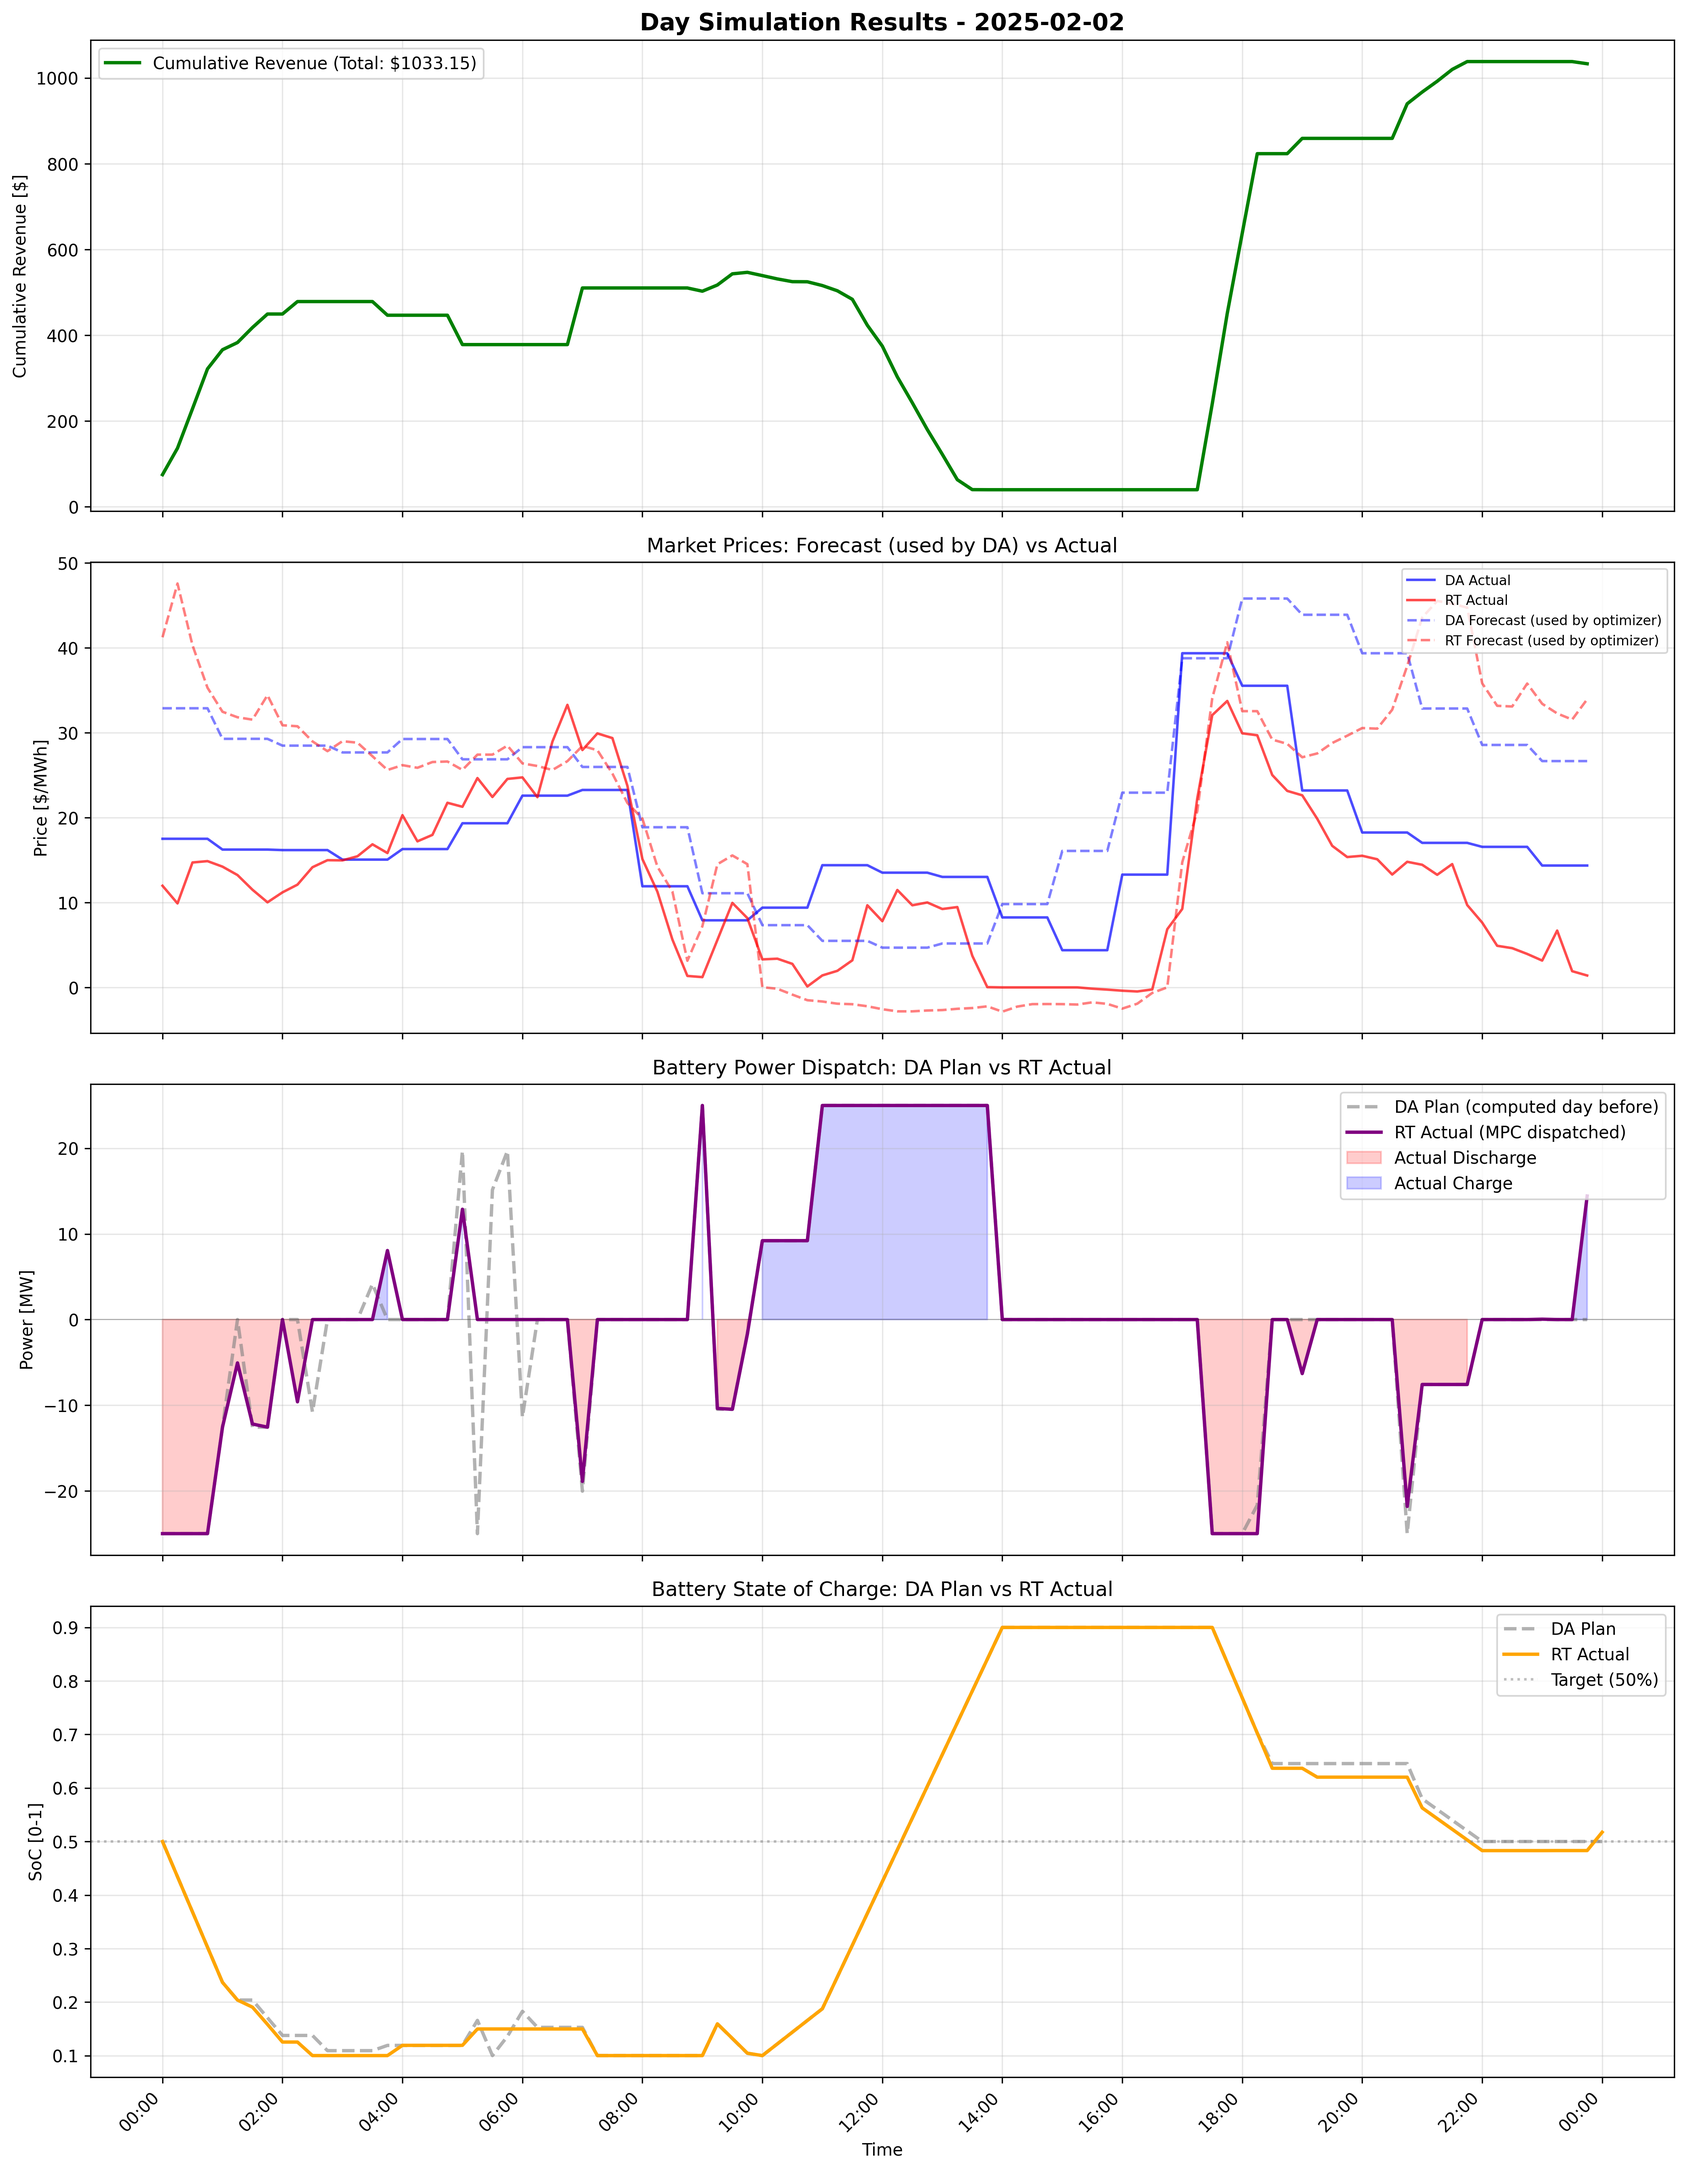
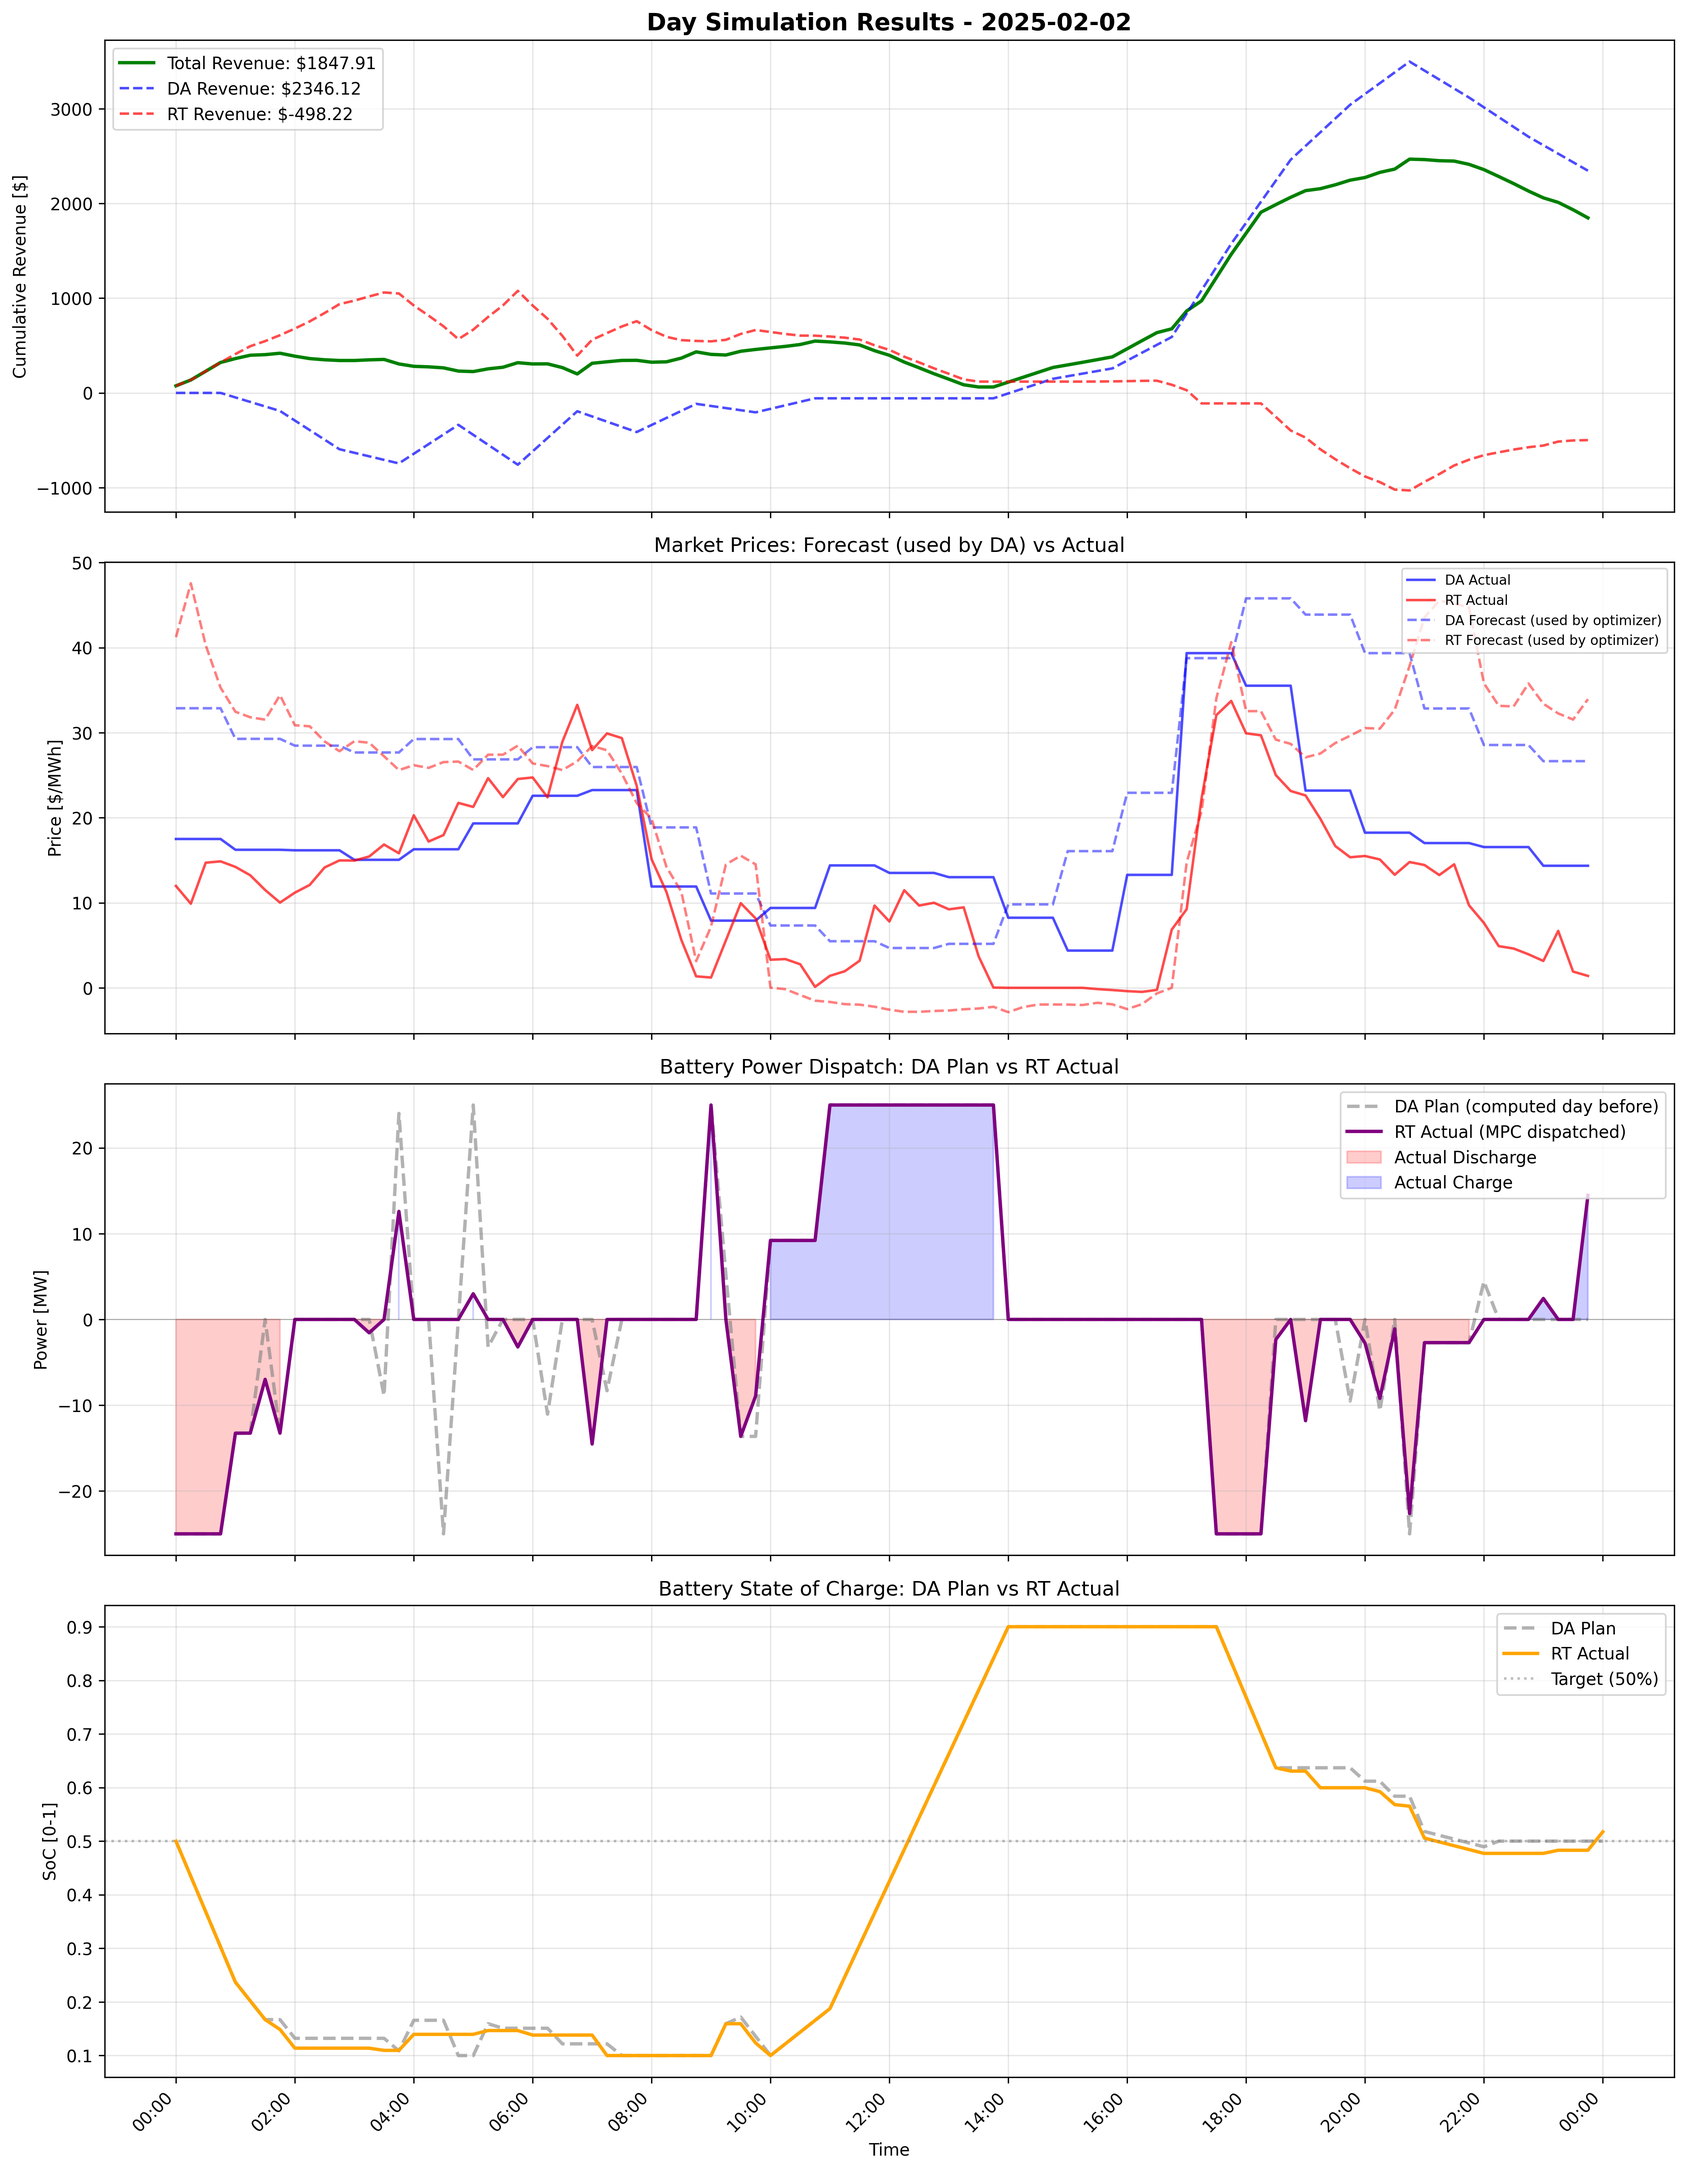
fixing forcas adn revenue calc issues

diff --git a/src/simulator.py b/src/simulator.py
@@ -1,4 +1,5 @@
 import pandas as pd
+import logging
 import numpy as np
 import matplotlib.pyplot as plt
 import os
@@ -37,16 +38,26 @@ def plot_day_simulation(
 
         fig, (ax1, ax2, ax3, ax4) = plt.subplots(4, 1, figsize=(14, 18), sharex=True)
 
-        # 1. Revenue accumulation
-        step_revenues = []
+        # 1. Revenue accumulation - separate DA and RT components
+        da_power_bids = da_schedule.da_energy_bids[:len(day_result.power_trajectory)] if da_schedule else np.zeros(len(day_result.power_trajectory))
+        rt_imbalance = day_result.power_trajectory - da_power_bids
+        
+        da_step_revenues = []
+        rt_step_revenues = []
         for t in range(len(day_result.power_trajectory)):
-            step_rev = -(actual_rt_prices[t] * day_result.power_trajectory[t] * DELTA_T)
-            step_revenues.append(step_rev)
-
-        cum_revenue = np.cumsum(step_revenues)
+            da_step_rev = -(actual_da_prices[t] * da_power_bids[t] * DELTA_T)
+            rt_step_rev = -(actual_rt_prices[t] * rt_imbalance[t] * DELTA_T)
+            da_step_revenues.append(da_step_rev)
+            rt_step_revenues.append(rt_step_rev)
+        
+        cum_da_revenue = np.cumsum(da_step_revenues)
+        cum_rt_revenue = np.cumsum(rt_step_revenues)
+        cum_total_revenue = cum_da_revenue + cum_rt_revenue
 
         ax1.set_title(f"Day Simulation Results - {day_result.date.date()}", fontsize=14, fontweight='bold')
-        ax1.plot(timestamps, cum_revenue, "g-", linewidth=2, label=f"Cumulative Revenue (Total: ${day_result.total_revenue:.2f})")
+        ax1.plot(timestamps, cum_total_revenue, "g-", linewidth=2, label=f"Total Revenue: ${day_result.total_revenue:.2f}")
+        ax1.plot(timestamps, cum_da_revenue, "b--", linewidth=1.5, alpha=0.7, label=f"DA Revenue: ${day_result.da_revenue:.2f}")
+        ax1.plot(timestamps, cum_rt_revenue, "r--", linewidth=1.5, alpha=0.7, label=f"RT Revenue: ${day_result.rt_revenue:.2f}")
         ax1.set_ylabel("Cumulative Revenue [$]")
         ax1.legend()
         ax1.grid(True, alpha=0.3)
@@ -65,9 +76,9 @@ def plot_day_simulation(
             da_forecast = da_schedule.da_price_forecast[:len(timestamps)]
             rt_forecast = da_schedule.rt_price_forecast[:len(timestamps)]
             ax2.plot(timestamps, da_forecast, "b--", alpha=0.5, linewidth=1.5,
-                    label="DA Forecast (used by optimizer)")
+                    label="DA Forecast (used by optimizers)")
             ax2.plot(timestamps, rt_forecast, "r--", alpha=0.5, linewidth=1.5,
-                    label="RT Forecast (used by optimizer)")
+                    label="RT Forecast (used by optimizers)")
 
         ax2.set_ylabel("Price [$/MWh]")
         ax2.legend(loc='upper right', fontsize=8)
@@ -239,30 +250,35 @@ def simulate_day(
         soc_next = current_soc + energy_change_mwh / battery.capacity_mwh
 
         # Clamp SOC to valid range
-        soc_next = np.clip(soc_next, battery.soc_min, battery.soc_max)
+        if not (battery.soc_min <= soc_next <= battery.soc_max):
+            raise logging.warning(f"SOC out of bounds at {current_time}: {soc_next}")
+
         soc_trajectory[t + 1] = soc_next
 
     # === Calculate Revenues ===
-    # Revenue is based on ACTUAL dispatched power (from RT MPC), not DA bids
-    # Convention: positive power = charging (we pay), negative power = discharging (we receive)
-    #
-    # Revenue = sum(price * discharge_power) - sum(price * charge_power)
-    #         = sum(price * power)  where power is net (negative for discharge, positive for charge)
-    #         = -sum(price * power) converted to revenue convention
-    #
-    # Since power_trajectory follows: negative = discharge (sell), positive = charge (buy)
-    # Revenue = sum(price * (-power)) for discharge portions
-    #
-    # Simplified: revenue = -sum(price * power) * DELTA_T
-
-    # Convert to numpy array to ensure type compatibility
+    # Revenue calculation based on actual market structure:
+    # 1. DA Market: Revenue from power bids placed in DA market at actual DA prices
+    # 2. RT Market: Revenue from difference between actual dispatch and DA bids at RT prices
+    
+    # Get actual DA prices for the day
+    actual_da_prices = day_data[f"{PRICE_NODE}_DAM"].values
     actual_rt_prices_arr = np.array(actual_rt_prices)
-    total_revenue = float(-np.sum(actual_rt_prices_arr * power_trajectory * DELTA_T))
-
-    # For reporting, we can separate DA vs RT components based on planned vs actual
-    # For simplicity, attribute all revenue to RT market since that's where actual settlement happens
-    da_revenue = 0.0  # Actual DA market not implemented in this simplified version
-    rt_revenue = total_revenue
+    
+    # Get DA power bids (what we committed to in DA market)
+    da_power_bids = da_schedule.da_energy_bids[:len(power_trajectory)]
+    
+    # Calculate DA market revenue: DA bids × actual DA prices
+    # Convention: negative power = discharge (we receive money), positive = charge (we pay)
+    da_revenue = float(-np.sum(da_power_bids * actual_da_prices * DELTA_T))
+    
+    # Calculate RT market imbalance: actual MPC dispatch - DA bids
+    rt_energy_volume= power_trajectory - da_power_bids
+    
+    # Calculate RT market revenue: imbalance × actual RT prices
+    rt_revenue = float(-np.sum(rt_energy_volume * actual_rt_prices_arr * DELTA_T))
+    
+    # Total revenue = DA revenue + RT revenue
+    total_revenue = da_revenue + rt_revenue
 
     return DaySimulationResult(
         date=day_start,
